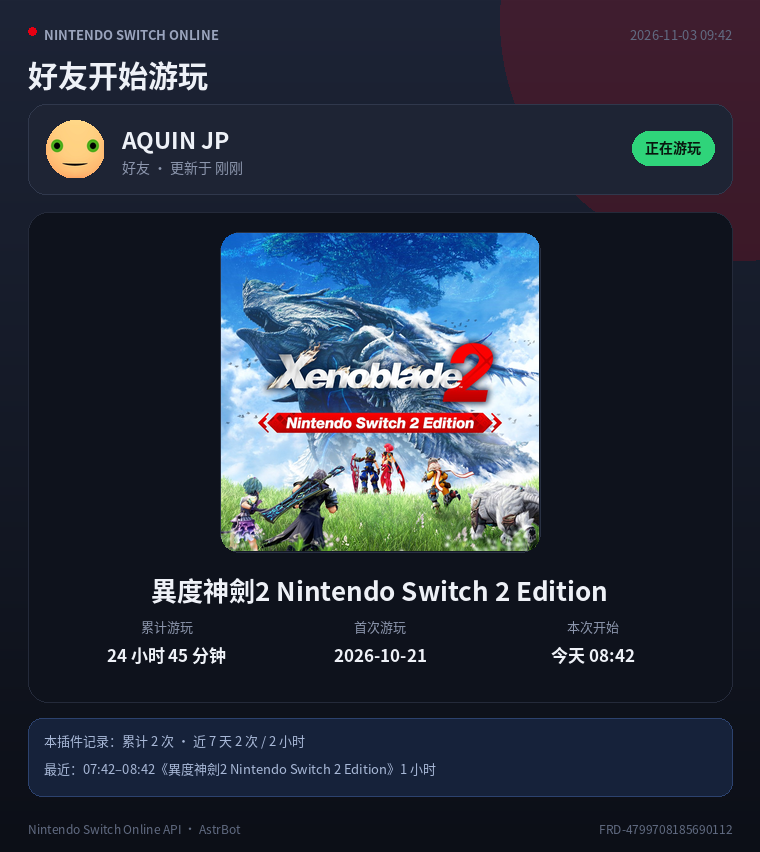
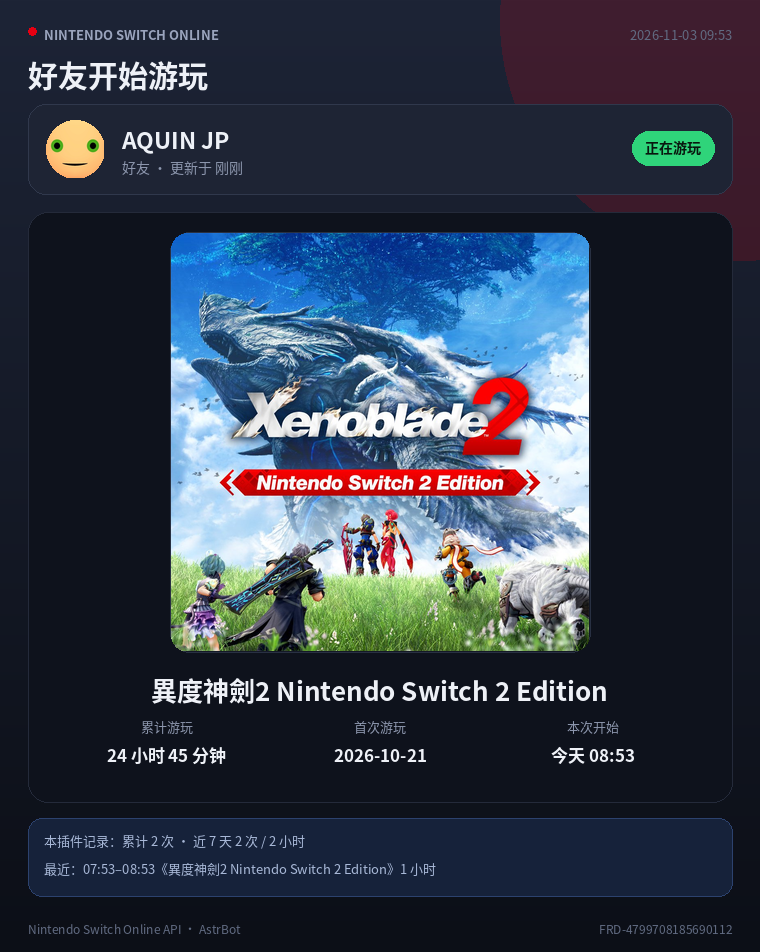
style: enlarge card cover to 420px

Changed region(s): [[0.0303, 0.0915, 1.0, 1.0], [0.0303, 0.0305, 0.3329, 0.2136], [0.8171, 0.0305, 0.9684, 0.061]]

diff --git a/main.py b/main.py
@@ -170,7 +170,7 @@ def _make_chain(components: list[Any]) -> Any:
     PLUGIN_NAME,
     "GTFaiz",
     "轮询任天堂好友在线/游玩状态，渲染游戏卡片推送到群，并支持查询好友游玩记录（Coral 3.5 / nxapi）",
-    "2.2.2",
+    "2.2.3",
 )
 class NsoFriendsPlugin(Star):
     def __init__(self, context: Context, config: AstrBotConfig | None = None) -> None:

diff --git a/nso/pil_render.py b/nso/pil_render.py
@@ -157,7 +157,7 @@ def render_card_png(
     friend_top = 104
     friend_height = 90
     game_top = friend_top + friend_height + 18
-    cover_box = 320
+    cover_box = 420
     game_height = 20 + cover_box + 18 + len(game_lines) * 34 + 18 + 64 + 16
     local_height = 78 if sessions else 0
     height = game_top + game_height + (16 + local_height if sessions else 0) + 56

diff --git a/CHANGELOG.md b/CHANGELOG.md
@@ -2,6 +2,13 @@
 
 版本号遵循 [语义化版本](https://semver.org/lang/zh-CN/)，格式参考 [Keep a Changelog](https://keepachangelog.com/zh-CN/1.1.0/)。
 
+## v2.2.3 — 2026-11-03
+
+### 变更
+
+- 封面从 320×320 放大到 420×420，仍然按原比例完整居中显示，不裁切。
+- 同步更新 `docs/preview-pillow.png` 预览图。
+
 ## v2.2.2 — 2026-11-03
 
 ### 变更
